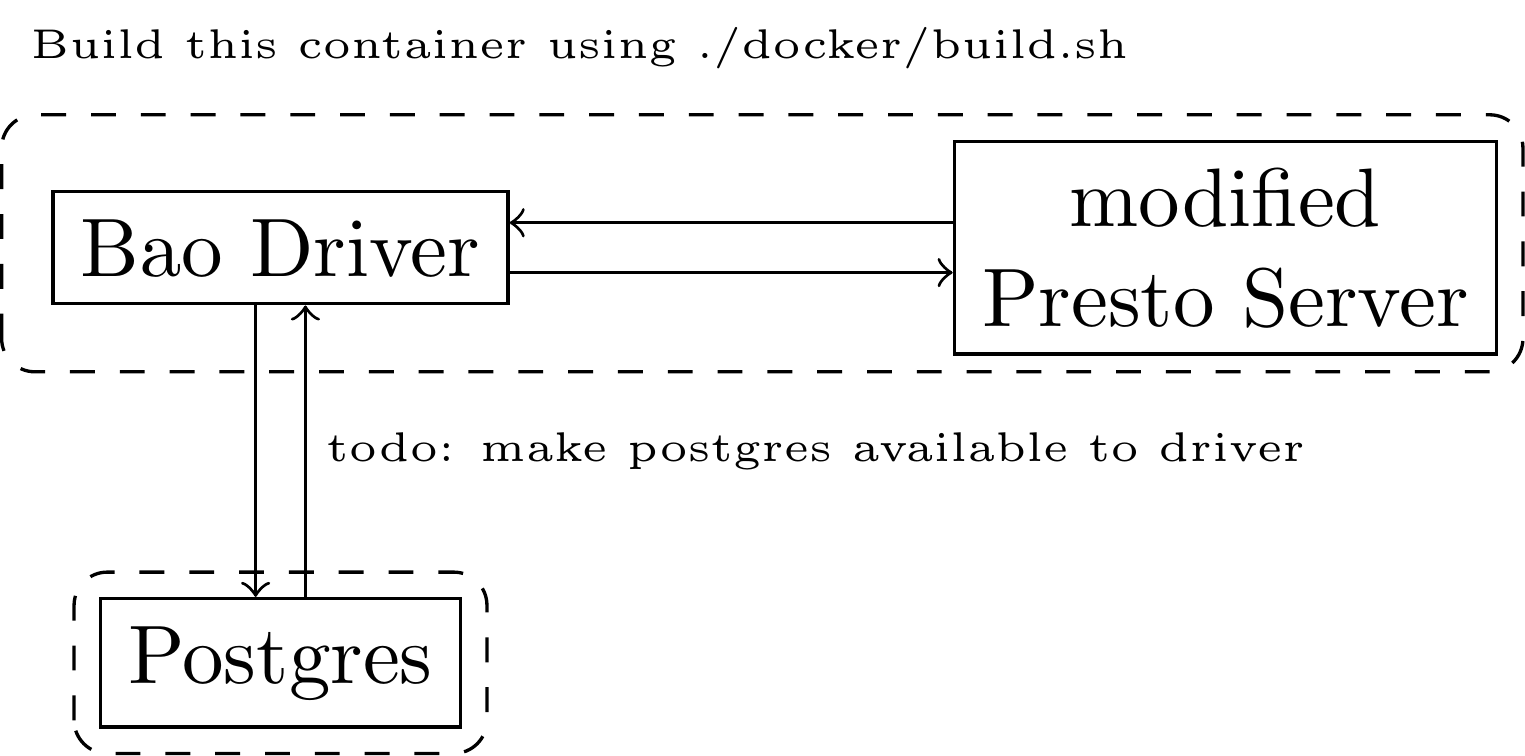
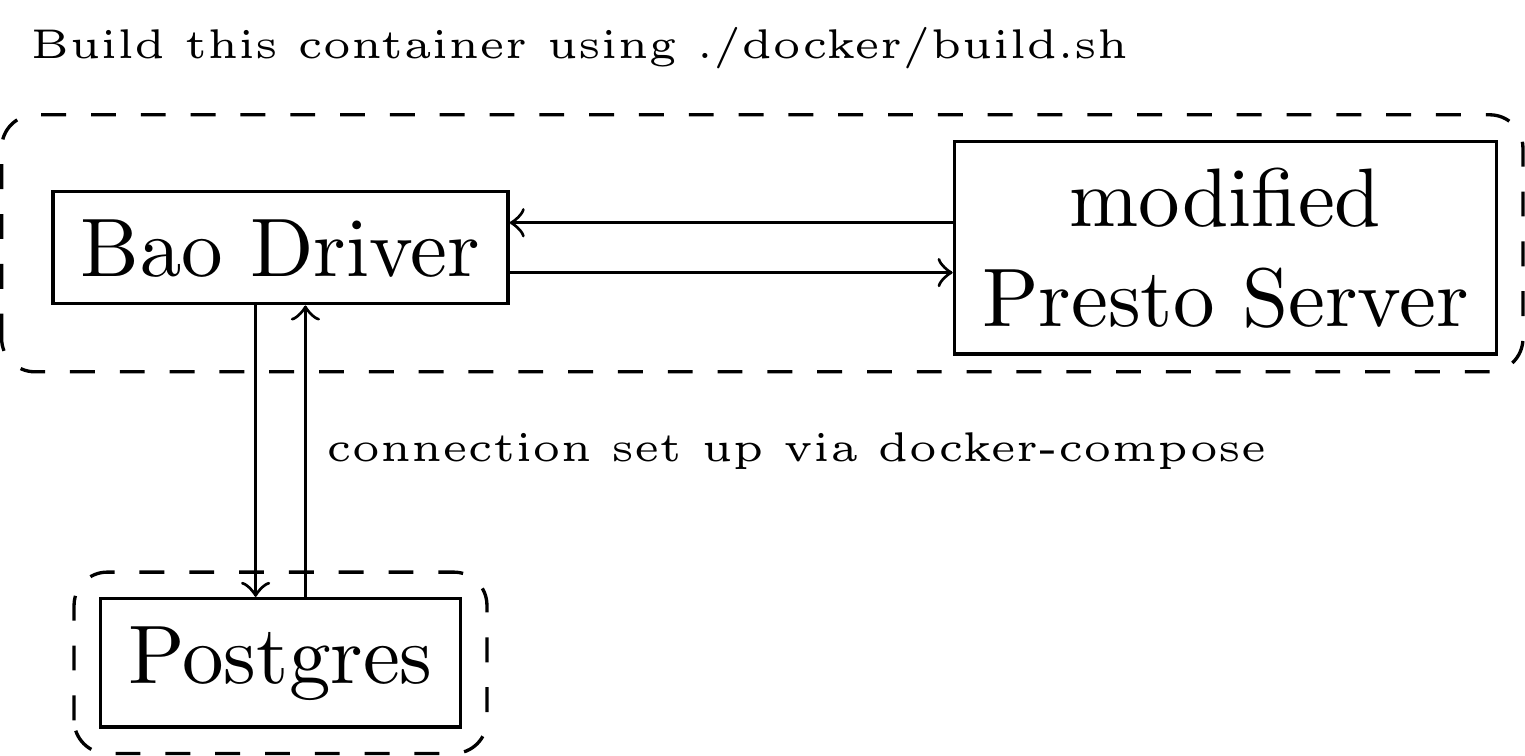
add docker-compose; update readme and setup instructions

Changed region(s): [[0.2157, 0.578, 0.863, 0.6389]]

diff --git a/README.md b/README.md
@@ -1,8 +1,10 @@
 # Bao Integration for Presto
 
 ## License
-This prototype implementation is licensed mainly under the 'MIT license' (see LICENSE).
-However, the following files are licensed under AGPLv3 and are copied from https://github.com/learnedsystems/BaoForPostgreSQL:
+
+This prototype implementation is licensed mainly under the 'MIT license' (see LICENSE). However, the following files are
+licensed under AGPLv3 and are copied from https://github.com/learnedsystems/BaoForPostgreSQL:
+
 - model.py
 - net.py
 - featurize.py
@@ -45,15 +47,19 @@ The benchmark execution consists of two steps:
    ```
 3. By now, the database should be filled with query spans and execution statistics for different plan alternatives.
 
-### Docker
+### Containerization
 
-For convenience, we added a Dockerfile that sets up all components properly. However, it is necessary to start a
-postgres instance (e.g. on host system) that can be accessed from within the containerized driver.
+- For convenience, we added a Dockerfile that sets up all components properly.
+- Please, use the `build.sh` script first, then run `docker-compose config` in the `docker` directory.
+- You must provide an env variable for the postgres password (cf. `docker/run.sh`).
+- Attach to the `bao-presto` container and run the commands shown in the previous section Execution
+- You can monitor the submitted queries (including the session variables) by visiting `localhost:8080`
 
 ![Overview](./architecture.png)
 
 ## Code Formatting
 
-All python files will be checked using `pylint` before they can be comitted. The code style is primarily based on
+- All python files will be checked using `pylint` before they can be comitted. The code style is primarily based on
 the [Google Python Style Guide](https://google.github.io/styleguide/pyguide.html), however, it allows much longer
 lines (160 characters).
+- Please, install and run pylint (there is also a git pre-commit hook) before committing
